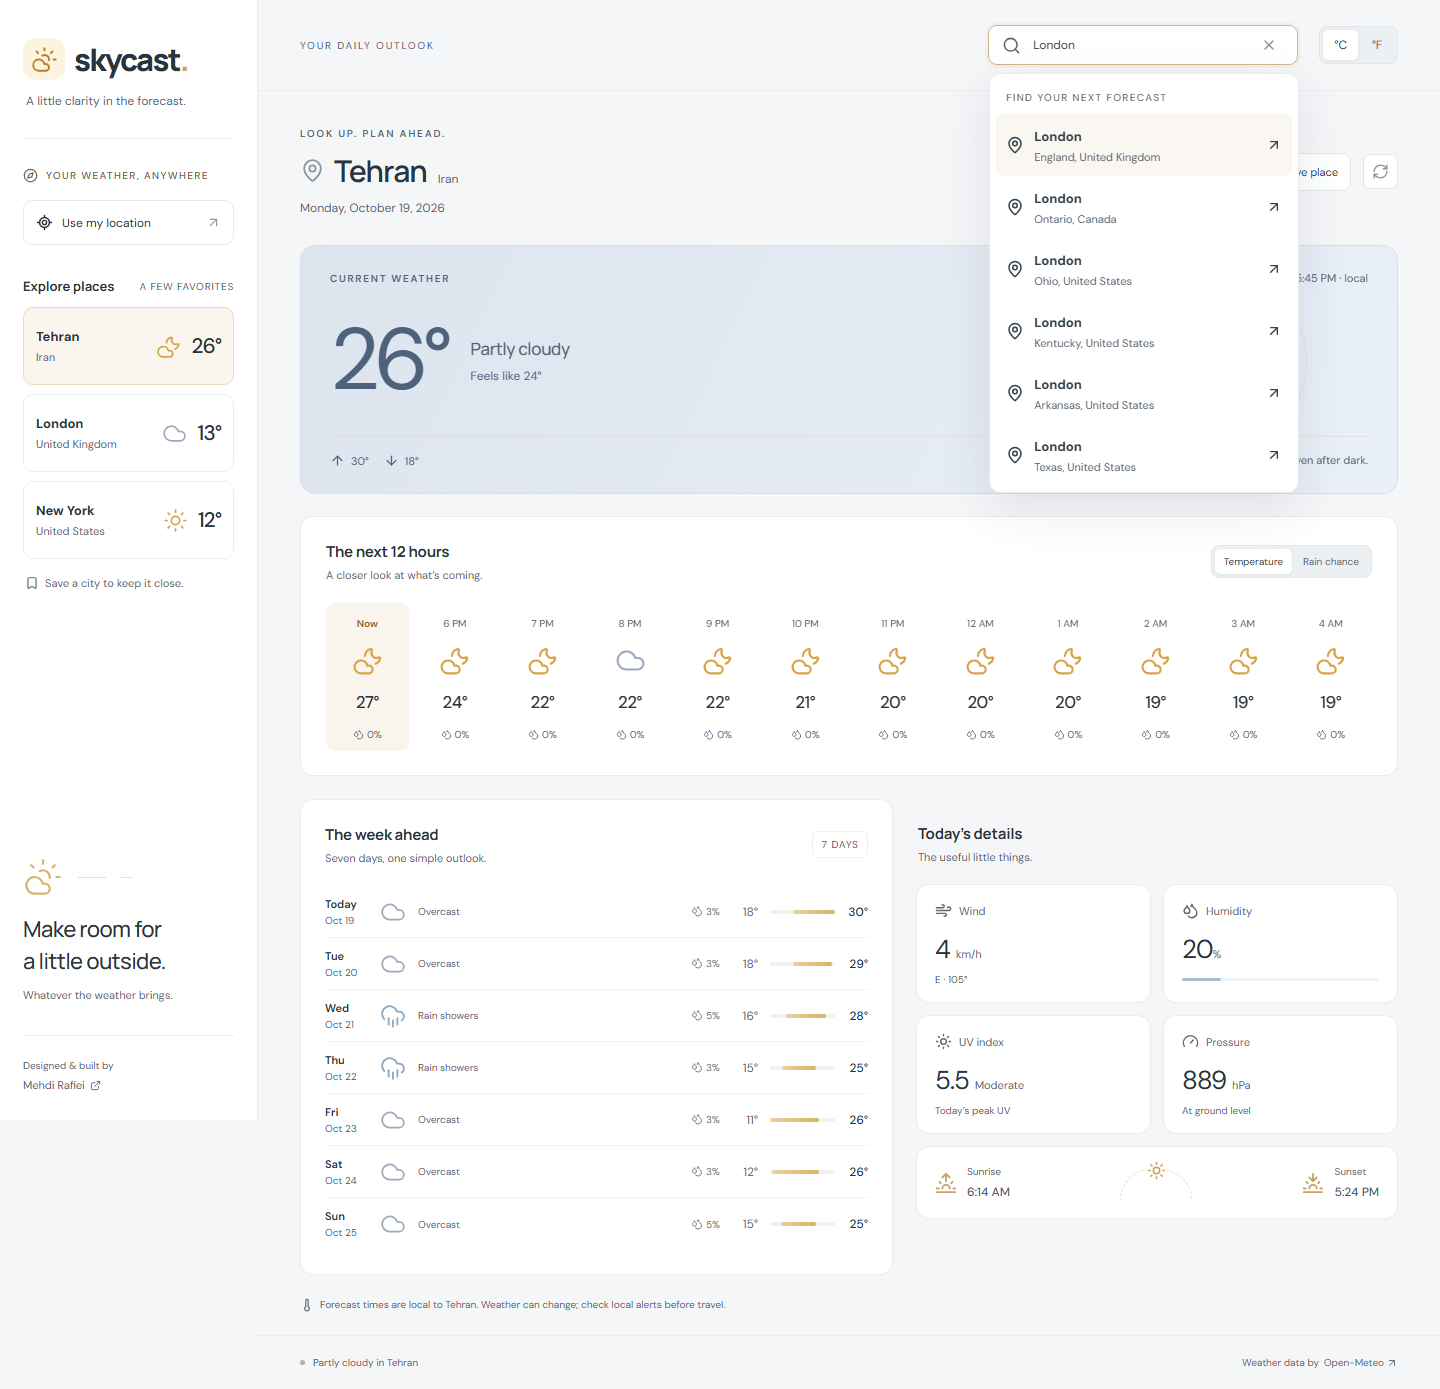
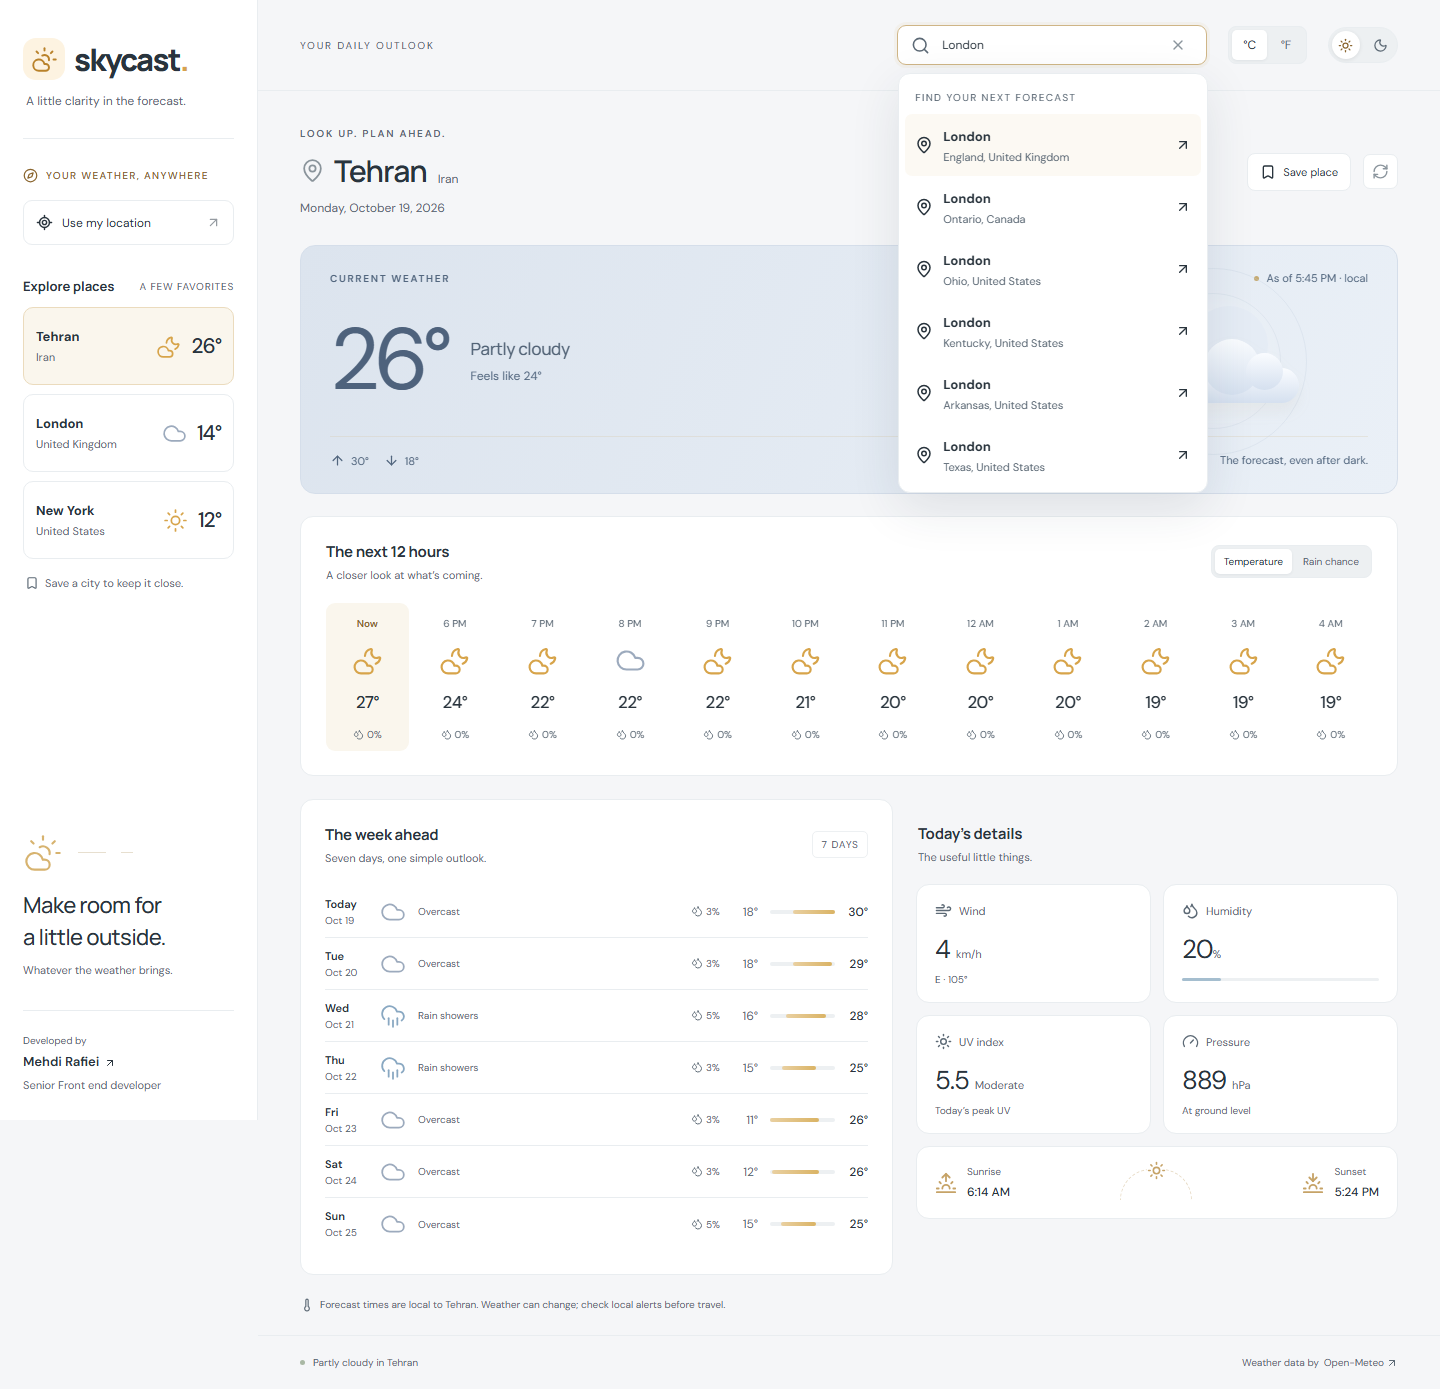
docs: refresh screenshots for themes and developer attribution
Document the theme preference and capture the finished light, dark, mobile, and city-search views.

diff --git a/README.md b/README.md
@@ -11,6 +11,7 @@ A weather dashboard built with React 19, TypeScript, Vite, and TanStack Query. S
 - Wind, humidity, surface pressure, peak UV, sunrise, and sunset.
 - City search with a short debounce, keyboard navigation, and country/region labels.
 - Browser location, saved places, and Celsius/Fahrenheit preferences.
+- Light and dark themes, with a saved preference and a system-based default.
 - Shareable city URLs that work with browser back and forward navigation.
 - Loading, empty, offline, and retry states. An unsuccessful refresh keeps the last forecast visible.
 
@@ -22,6 +23,8 @@ Forecasts come from [Open-Meteo](https://open-meteo.com/). There’s no API key 
 <img src="docs/screenshots/mobile.png" width="320" alt="Skycast mobile layout with horizontally scrollable places and hourly forecasts" />
 
 ![Keyboard-accessible city search](docs/screenshots/city-search.png)
+
+![Skycast in dark mode](docs/screenshots/dark.png)
 
 </details>
 
